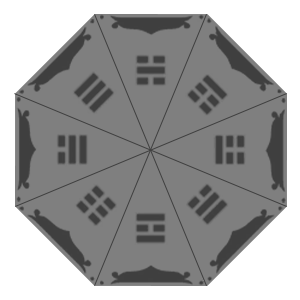
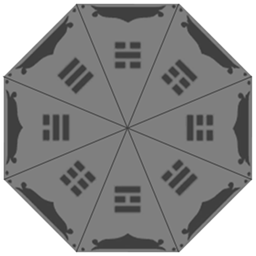
Fixed bopae bg size, BopaeCircle3 with bg

diff --git a/bopae_react/src/BopaeCircle3.js b/bopae_react/src/BopaeCircle3.js
@@ -1,11 +1,12 @@
 import React, { Component } from 'react'
 import './styles/bopae-circle3.css'
+import bgImg from './img/bopae_circle_bg.png'
 
 const PART_WIDTH = 128
 const HOVER_DELTA_PX = 16
 
-function dir2rad(dir) {
-	return (dir-2)/4*Math.PI
+function num2rad(num) {
+	return (num-2)/4*Math.PI
 }
 
 function centerOffset(num) {
@@ -14,30 +15,28 @@ function centerOffset(num) {
 }
 
 class BopaePart extends Component {
-	points(dir) {
+	points(num) {
 		let w = PART_WIDTH, da = Math.PI/8, dw = 1.05
-		let angle = dir2rad(dir)
-		let [x0, y0] = centerOffset(dir)//[w*0-0.5, w*0-0.5]
+		let angle = num2rad(num)
+		let [x0, y0] = centerOffset(num)
 		x0 -= 0.5; y0 -= 0.5
 		let [x1, y1] = [x0+Math.cos(angle-da)*w*dw+0.5, y0+Math.sin(angle-da)*w*dw+0.5]
 		let [x2, y2] = [x0+Math.cos(angle+da)*w*dw+0.5, y0+Math.sin(angle+da)*w*dw+0.5]
 		return `${x0},${y0} ${x1},${y1} ${x2},${y2}`
 	}
 	render() {
-		let angle = dir2rad(this.props.dir)
+		let w = PART_WIDTH
+		let angle = num2rad(this.props.num)
+		let [x0, y0] = centerOffset(this.props.num)
 		let [hoverDX, hoverDY] = [Math.cos(angle)*HOVER_DELTA_PX+0.5|0, Math.sin(angle)*HOVER_DELTA_PX+0.5|0]
 		let transform = `translate(${hoverDX}px, ${hoverDY}px)`
-		let img_src = `${process.env.PUBLIC_URL}/img/${this.props.name}.png`
-		let id = `bopae-pattern-3-${this.props.name}-${this.props.dir}`
-		//transform={`translate(${HOVER_DELTA_PX} ${HOVER_DELTA_PX})`}
-		let [x0, y0] = centerOffset(this.props.dir)
-		let w = PART_WIDTH
+		let id = `bopae-pattern-3-${this.props.name}-${this.props.num}`
 		return (
-			<svg className="bopae-piece" width={w} height={w} style={{left: w-x0, top: w-y0, transform}}>
+			<svg className={"bopae-piece"+(this.props.icon ? "" : " empty")} width={w} height={w} style={{left: w-x0, top: w-y0, transform}}>
 				<pattern id={id} x={x0-w} y={y0-w} patternUnits="userSpaceOnUse" width="256" height="256">
-					<image xlinkHref={img_src} width="256" height="256" />
+					<image xlinkHref={this.props.icon || bgImg} width="256" height="256" />
 				</pattern>
-				<polygon points={this.points(this.props.dir)} fill={'url(#'+id+')'} onClick={this.props.onClick} />
+				<polygon points={this.points(this.props.num)} fill={'url(#'+id+')'} onClick={this.props.onClick} />
 			</svg>
 		)
 	}
@@ -45,11 +44,11 @@ class BopaePart extends Component {
 
 class BopaeCircle2 extends Component {
 	render() {
-		let dirs = [0,1,2,3,4,5,6,7]
 		return (
 			<div className="bopae-circle3" style={{width: PART_WIDTH*2, height: PART_WIDTH*2}}>
-				{dirs.map((dir) =>
-					<BopaePart key={dir} dir={dir} name={this.props.name} onClick={(e) => this.props.onClick(e, dir)} />
+				<img alt="background" className="bopae-bg-image" src={bgImg} />
+				{this.props.pieces.map((piece, num) =>
+					<BopaePart key={num} num={num} icon={piece && piece.getFullIconPath()} onClick={(e) => this.props.onClick(num)} />
 				)}
 			</div>
 		)

diff --git a/bopae_react/src/index.js b/bopae_react/src/index.js
@@ -17,6 +17,10 @@ import BopaeDBUtils from './dbutils.js'
 let bopaes = BopaeDBUtils.convert(bopaeDB, 'ru')
 window.bopaes = bopaes
 
+let testPieces = bopaes[0].pieces.slice()
+testPieces[4] = null
+testPieces[5] = null
+
 ReactDOM.render(
 	<div className="app">
 		<header>
@@ -31,9 +35,9 @@ ReactDOM.render(
 			<div className="main-wrap">
 				<BopaeCalc bopaes={bopaes} />
 			</div>
-			<BopaeCircle pieces={bopaes[0].pieces}/>
+			<BopaeCircle pieces={testPieces}/>
 			<BopaeCircle2 name={bopaes[0].icon} />
-			<BopaeCircle3 name={bopaes[0].icon} />
+			<BopaeCircle3 pieces={testPieces} />
 		</main>
 		<footer>
 			<div className="main-wrap">

diff --git a/bopae_react/src/styles/bopae-circle3.css b/bopae_react/src/styles/bopae-circle3.css
@@ -5,14 +5,18 @@
 .bopae-circle3 .bopae-piece {
 	position: absolute;
 	pointer-events: none;
-	transition: transform 0.2s ease;
+	transition: transform 0.2s ease, opacity 0.2s ease;
 }
 .bopae-circle3 .bopae-piece:hover {
 	z-index: 1;
-	filter: drop-shadow(0 0 4px green);
+	filter: drop-shadow(0 0 4px yellow);
 }
+.bopae-circle3 .bopae-piece.empty,
 .bopae-circle3 .bopae-piece:not(:hover) {
 	transform: none !important;
+}
+.bopae-circle3 .bopae-piece.empty:not(:hover) {
+	opacity: 0;
 }
 
 .bopae-circle3 polygon {

diff --git a/bopae_react/src/dbutils.js b/bopae_react/src/dbutils.js
@@ -21,6 +21,9 @@ class BopaePiece {
 	getIconPath() {
 		return `${process.env.PUBLIC_URL}/img/${this.icon}${this.num}.png`
 	}
+	getFullIconPath() {
+		return `${process.env.PUBLIC_URL}/img/${this.icon}.png`
+	}
 	getStat(name) {
 		return name in this.stats ? this.stats[name] : [0, 0, false]
 	}

diff --git a/bopae_react/src/styles/bopae-circle.css b/bopae_react/src/styles/bopae-circle.css
@@ -2,11 +2,6 @@
 	position: relative;
 }
 
-.bopae-circle .bopae-bg-image {
-	margin-left: -23px;
-	margin-top: -23px;
-}
-
 .bopae-circle .bopae-part {
 	pointer-events: none;
 	position: absolute;
